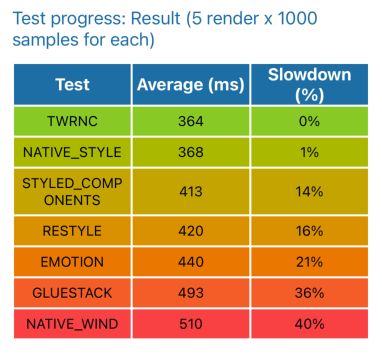
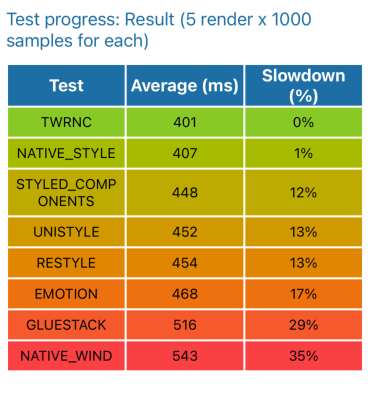
feat: add unistyle

diff --git a/test/unistyle.config.ts b/test/unistyle.config.ts
@@ -1,0 +1,52 @@
+
+import { UnistylesRegistry } from 'react-native-unistyles'
+export const breakpoints = {
+    xs: 0,
+    sm: 576,
+    md: 768,
+    lg: 992,
+    xl: 1200,
+    superLarge: 2000,
+    tvLike: 4000
+} as const
+
+export const lightTheme = {
+    colors: {
+        red: '#ff0000',
+    },
+} as const
+
+export const darkTheme = {
+    colors: {
+        red: '#ff0000',
+    },
+} as const
+
+// if you defined breakpoints
+type AppBreakpoints = typeof breakpoints
+
+// if you defined themes
+type AppThemes = {
+    light: typeof lightTheme,
+    dark: typeof darkTheme
+}
+
+// override library types
+declare module 'react-native-unistyles' {
+    export interface UnistylesBreakpoints extends AppBreakpoints {}
+    export interface UnistylesThemes extends AppThemes {}
+}
+
+
+
+UnistylesRegistry
+    .addBreakpoints(breakpoints)
+    .addThemes({
+        light: lightTheme,
+        dark: darkTheme,
+        // register other themes with unique names
+    })
+    .addConfig({
+        // you can pass here optional config described below
+        adaptiveThemes: true
+    })

diff --git a/test/unistyle.tsx b/test/unistyle.tsx
@@ -1,0 +1,25 @@
+import {times} from "@/utility/times";
+import {TestProps} from "@/test/types";
+import {Text} from 'react-native'
+import {createStyleSheet, useStyles} from 'react-native-unistyles'
+
+
+const stylesheet = createStyleSheet(theme => ({
+    text: {
+        color: theme.colors.red,
+        fontSize: 12,
+        fontWeight: 'bold'
+    }
+}))
+
+export const TextStyle = ({children}: { children: React.ReactNode }) => {
+    const {styles} = useStyles(stylesheet)
+
+    return (<Text style={styles.text}>{children}</Text>)
+}
+
+
+export const UniStyle = ({limit}: TestProps) => {
+    return (times(limit, (i) => (<TextStyle key={i}>Lorem Ipsum {i}</TextStyle>)));
+}
+

diff --git a/app/index.tsx b/app/index.tsx
@@ -12,6 +12,7 @@ import {TestRunner} from "@/components/TestRunner";
 import {Row, Table} from 'react-native-table-component';
 import {LIMIT, MAX_TEST_ATTEMPTS, TEST_TYPE} from "@/config";
 import {Twrnc} from "@/test/twrnc";
+import {UniStyle} from "@/test/unistyle";
 
 enum PROGRESS_STATE {
     Requested, // Loading
@@ -35,6 +36,8 @@ const getComponent = (value: TEST_TYPE): React.JSXElementConstructor<{ limit: nu
             return GluestackStyle
         case TEST_TYPE.TWRNC:
             return Twrnc
+        case TEST_TYPE.UNISTYLE:
+            return UniStyle
         default:
             return null;
     }

diff --git a/config.ts b/config.ts
@@ -1,4 +1,4 @@
 export const MAX_TEST_ATTEMPTS = 5
 export const LIMIT = 1000;
 
-export enum TEST_TYPE { TWRNC, GLUESTACK, 'NATIVE_STYLE', 'NATIVE_WIND', 'STYLED_COMPONENTS', 'RESTYLE', 'EMOTION', }
+export enum TEST_TYPE { UNISTYLE, TWRNC, GLUESTACK, 'NATIVE_STYLE', 'NATIVE_WIND', 'STYLED_COMPONENTS', 'RESTYLE', 'EMOTION', }

diff --git a/app/_layout.tsx b/app/_layout.tsx
@@ -15,6 +15,7 @@ import emotionTheme from "@/test/emotion.config";
 import styledComponentsTheme from "@/test/styled-components.config";
 import {config} from "@/gluestack-style.config"
 
+import '@/test/unistyle.config'
 
 export {
     // Catch any errors thrown by the Layout component.

diff --git a/README.md b/README.md
@@ -20,13 +20,14 @@ yarn ios
 
 | Test                | Average | % Slowdown |
 |---------------------|---------|------------|
-| Twrnc               | 364     | 0          |
-| Native StyleSheet   | 368     | 1%         |
-| Styled Component v6 | 413     | 14%        |
-| Restyle (shopify)   | 420     | 16%        |
-| Emotion             | 440     | 21%        |
-| GlueStack           | 493     | 36%        |
-| NativeWind          | 510     | 40%        |
+| Twrnc               | 401     | 0          |
+| Native StyleSheet   | 407     | 1%         |
+| Styled Component v6 | 448     | 12%        |
+| Unistyle            | 452     | 13%        |
+| Restyle (shopify)   | 454     | 13%        |
+| Emotion             | 468     | 17%        |
+| GlueStack           | 516     | 29%        |
+| NativeWind          | 543     | 35%        |
 
 
 ![img.png](./docs/output.png)
